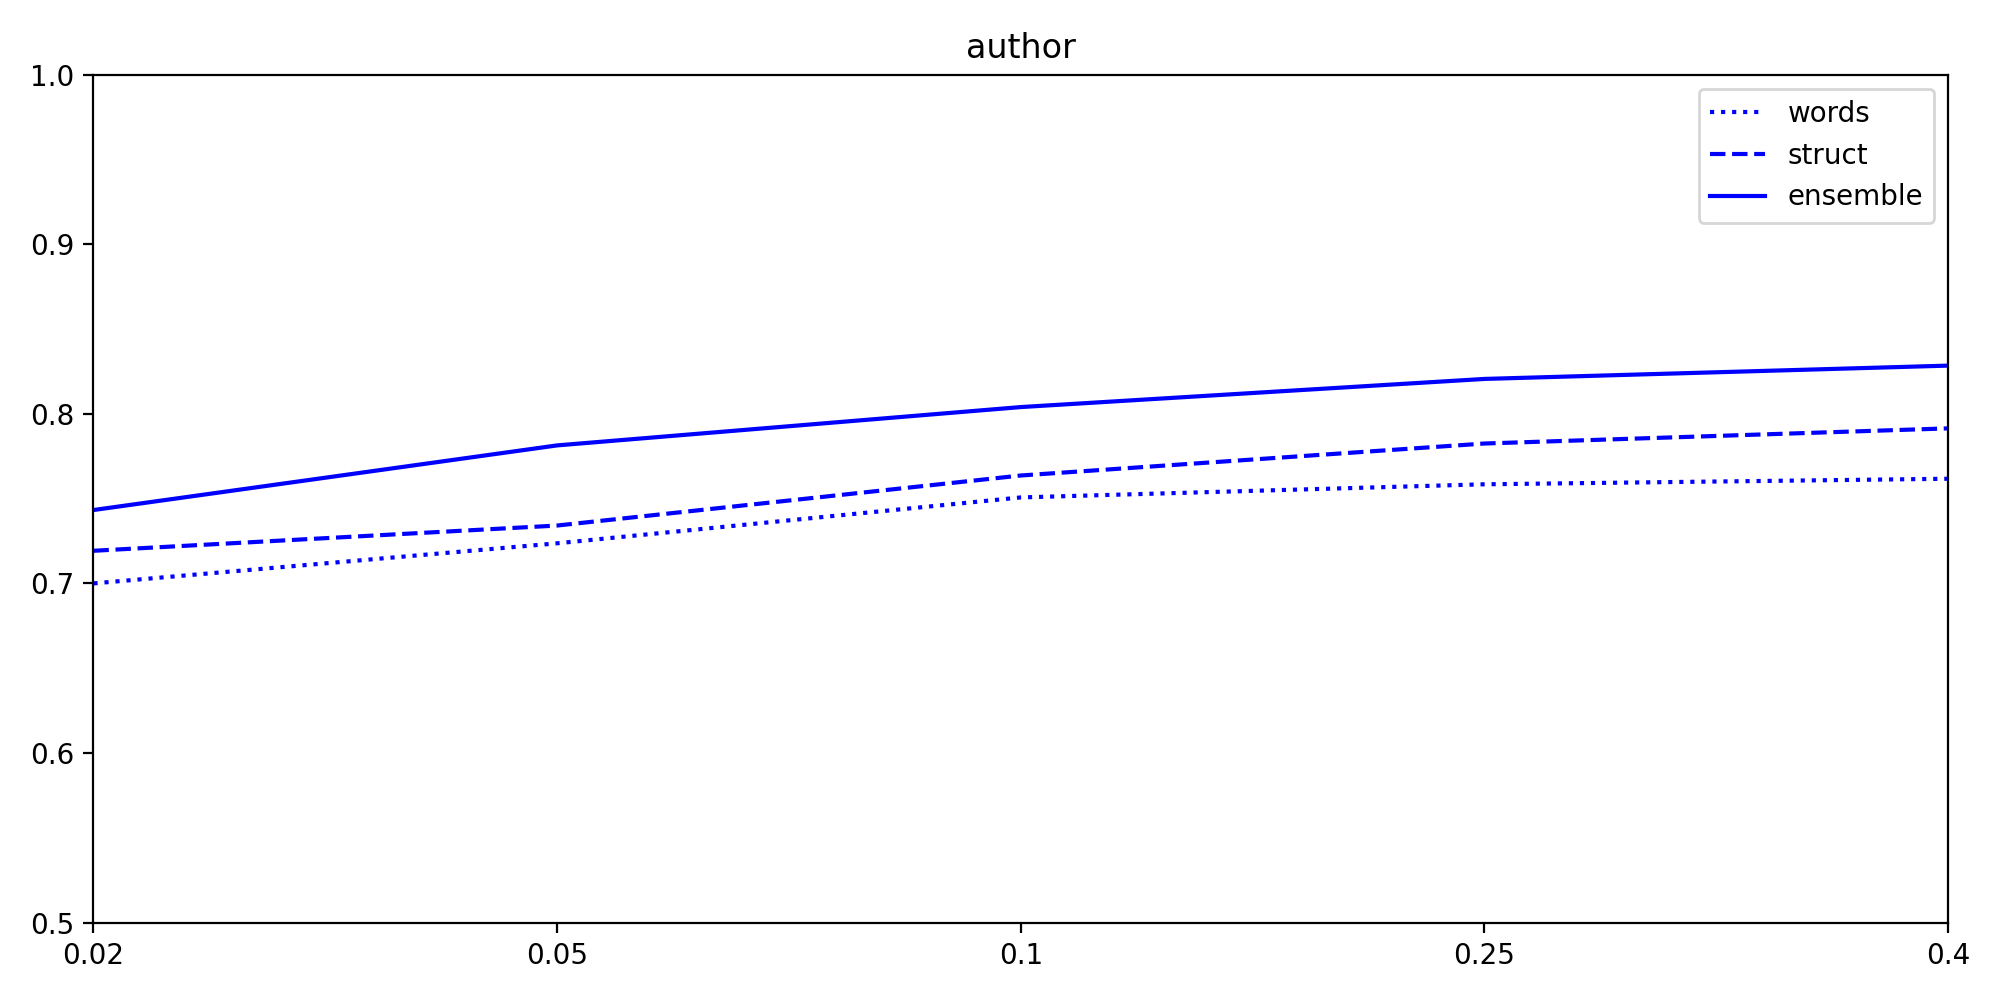
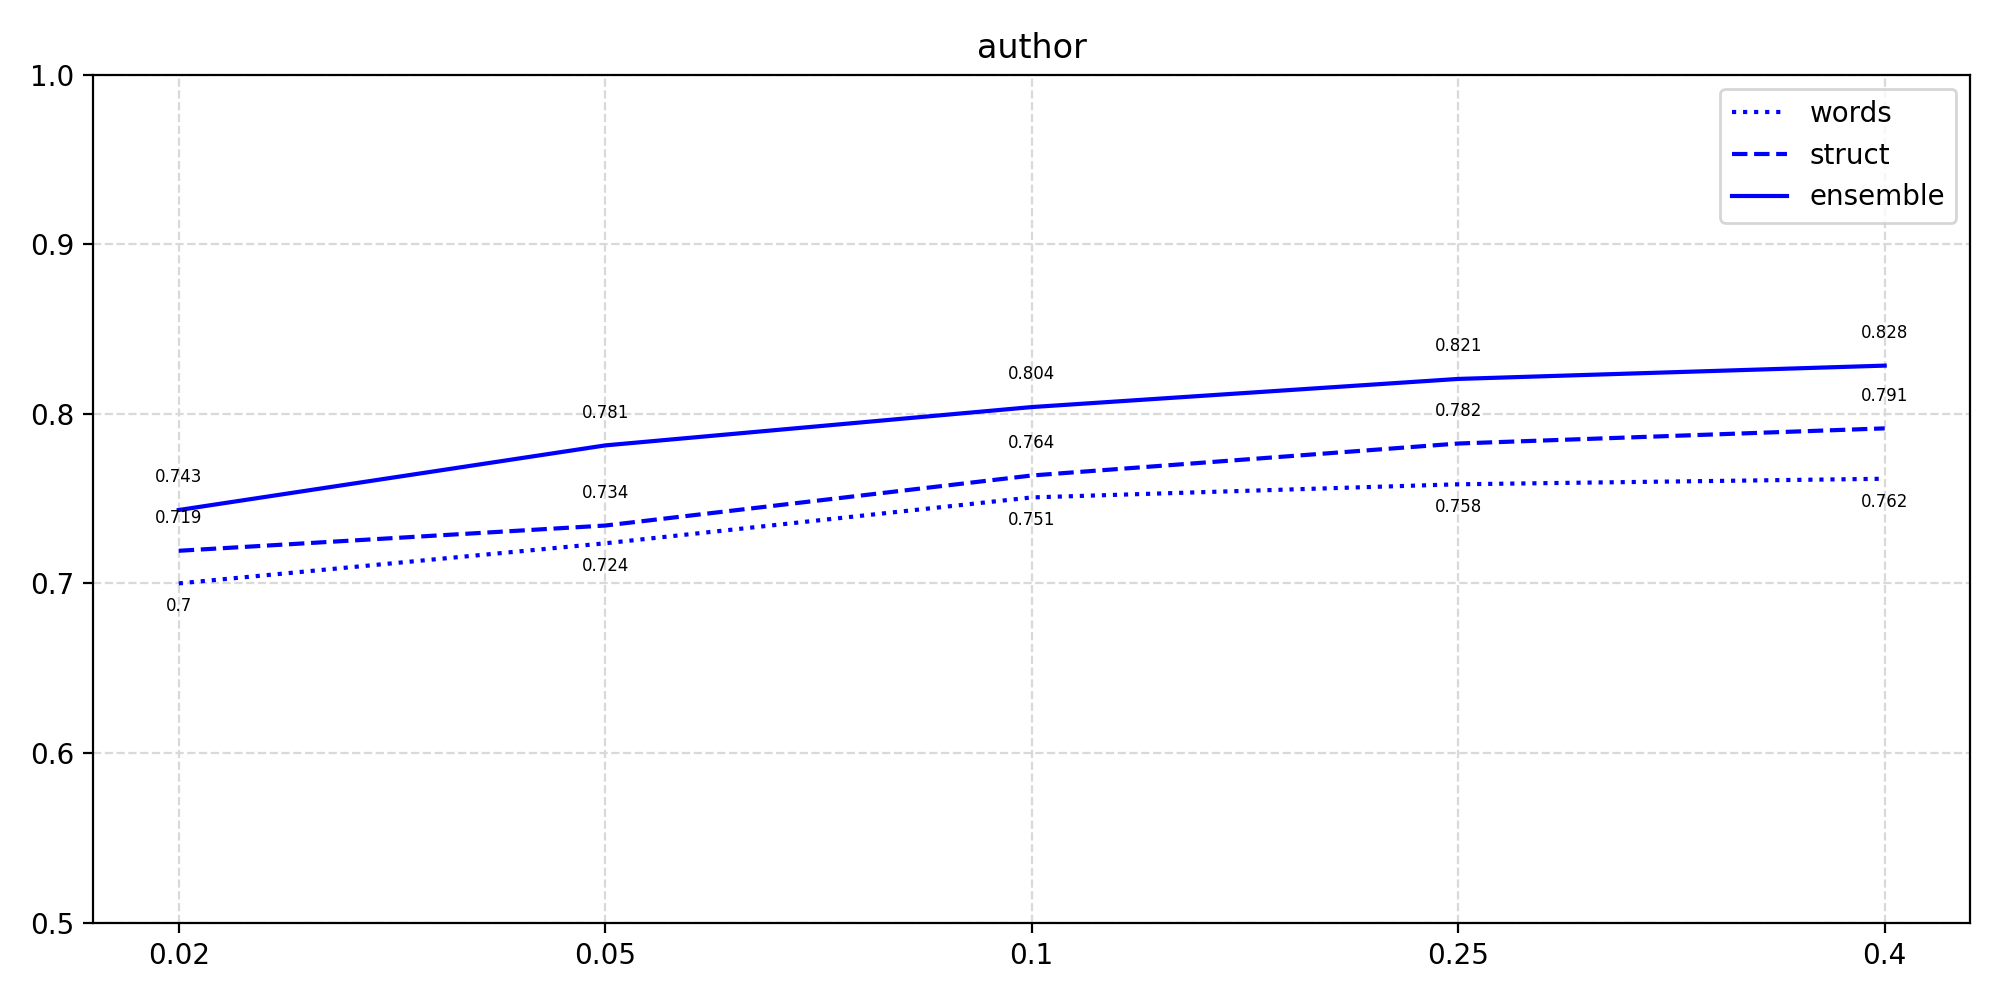
Blue finished

diff --git a/blue_anal.py b/blue_anal.py
@@ -18,7 +18,7 @@ probas = np.load("results/green_probas.npy", allow_pickle=True)
 y_true = np.load("results/green_ytest.npy", allow_pickle=True).reshape(10,5)
 
 """
-Finding best ngram range
+Finding best n-gram range
 """
 # KEYS x EXTRACTOR x QUANTITIES x FROM x TO
 scores = np.mean(scores, axis=(2,3))
@@ -56,16 +56,14 @@ for key_id, key in enumerate(keys):
 
         # calculate mean scores from folds
         fold_scores = np.zeros((3 ,10))
-        for i in range(w.shape[0]):
+        for i in range(10):
             pred_w = np.argmax(w[i], axis=1)
             pred_s = np.argmax(s[i], axis=1)
             pred_e = np.argmax(e[i], axis=1)
             fold_scores[0,i] = balanced_accuracy_score(y_test[i], pred_w)
             fold_scores[1,i] = balanced_accuracy_score(y_test[i], pred_s)
             fold_scores[2,i] = balanced_accuracy_score(y_test[i], pred_e)
-        # print(np.mean(fold_scores, axis=1))
         plot_scores.append(np.mean(fold_scores, axis=1))
-        # exit()
     plot_scores = np.array(plot_scores).T
 
     # Lets make some plots
@@ -74,11 +72,136 @@ for key_id, key in enumerate(keys):
     fig = plt.figure(figsize=(10, 5))
     for i in range(plot_scores.shape[0]):
         plt.plot(plot_scores[i], color='blue', ls=ls[i], label=labels[i])
+        # Annotate
+        xytext = [(0,-10), (0,10), (0,10)]
+        for j in range(plot_scores[i].shape[0]):
+            plt.annotate(str(round(plot_scores[i][j], 3)), (j,plot_scores[i][j]), textcoords="offset points", xytext=xytext[i], ha='center', fontsize=6)
 
     plt.ylim(0.5, 1.0)
     plt.xticks([i for i in range(quantities.shape[0])], [str(type) for type in quantities])
-    plt.xlim(0, 4)
+    # plt.xlim(0, 4)
     plt.title(key)
     plt.legend()
+    plt.grid(ls="--", color=(0.85, 0.85, 0.85))
     plt.tight_layout()
     plt.savefig("figures/%s_blueplot.png" % key, dpi=200)
+
+
+"""
+Plots by extractor
+"""
+y_true = np.load("results/green_ytest.npy", allow_pickle=True)
+for extractor_id, extractor in enumerate(i_s):
+    print(extractor)
+    plot_scores = []
+    for q_id, quantity in enumerate(quantities):
+        y_test = y_true[:, :, q_id].reshape(10,)
+        separate_proba = best_probas[q_id, :, extractor_id]
+
+        txt = separate_proba[0].reshape(10,)
+        aut = separate_proba[1].reshape(10,)
+        ttl = separate_proba[2].reshape(10,)
+        e = np.mean(best_probas[q_id, :, extractor_id], axis=0).reshape(10,)
+
+        # calculate mean scores from folds
+        fold_scores = np.zeros((4 ,10))
+        for i in range(10):
+            pred_txt = np.argmax(txt[i], axis=1)
+            pred_aut = np.argmax(aut[i], axis=1)
+            pred_ttl = np.argmax(ttl[i], axis=1)
+            pred_e = np.argmax(e[i], axis=1)
+            fold_scores[0,i] = balanced_accuracy_score(y_test[i], pred_txt)
+            fold_scores[1,i] = balanced_accuracy_score(y_test[i], pred_aut)
+            fold_scores[2,i] = balanced_accuracy_score(y_test[i], pred_ttl)
+            fold_scores[3,i] = balanced_accuracy_score(y_test[i], pred_e)
+        plot_scores.append(np.mean(fold_scores, axis=1))
+    plot_scores = np.array(plot_scores).T
+
+    # Lets make some plots
+    labels = ['text', 'author', 'title', 'ensemble']
+    ls = [":", "--", "-.", "-"]
+    fig = plt.figure(figsize=(10, 5))
+    for i in range(plot_scores.shape[0]):
+        plt.plot(plot_scores[i], color='blue', ls=ls[i], label=labels[i])
+        # Annotate
+        xytext = [(0,5), (0,5), (0,5), (0,5)]
+        for j in range(plot_scores[i].shape[0]):
+            plt.annotate(str(round(plot_scores[i][j], 3)), (j,plot_scores[i][j]), textcoords="offset points", xytext=xytext[i], ha='center', fontsize=6)
+
+    plt.ylim(0.5, 1.0)
+    plt.xticks([i for i in range(quantities.shape[0])], [str(type) for type in quantities])
+    # plt.xlim(0, 4)
+    plt.title(extractor)
+    plt.legend()
+    plt.grid(ls="--", color=(0.85, 0.85, 0.85))
+    plt.tight_layout()
+    plt.savefig("figures/%s_blueplot.png" % extractor, dpi=200)
+
+"""
+Ensemble of 6
+"""
+y_true = np.load("results/green_ytest.npy", allow_pickle=True)
+plot_scores = []
+stds = []
+for q_id, quantity in enumerate(quantities):
+    y_test = y_true[:, :, q_id].reshape(10,)
+    separate_proba = best_probas[q_id, :, :]
+
+    txt_w = separate_proba[0,0].reshape(10,)
+    aut_w = separate_proba[1,0].reshape(10,)
+    ttl_w = separate_proba[2,0].reshape(10,)
+    txt_s = separate_proba[0,1].reshape(10,)
+    aut_s = separate_proba[1,1].reshape(10,)
+    ttl_s = separate_proba[2,1].reshape(10,)
+    e = np.mean(best_probas[q_id, :, :], axis=(0,1)).reshape(10,)
+    e_w = np.mean(best_probas[q_id, :, 0], axis=0).reshape(10,)
+    e_s = np.mean(best_probas[q_id, :, 1], axis=0).reshape(10,)
+
+    # calculate mean scores from folds
+    fold_scores = np.zeros((9 ,10))
+    for i in range(10):
+        pred_txt_w = np.argmax(txt_w[i], axis=1)
+        pred_aut_w = np.argmax(aut_w[i], axis=1)
+        pred_ttl_w = np.argmax(ttl_w[i], axis=1)
+        pred_txt_s = np.argmax(txt_s[i], axis=1)
+        pred_aut_s = np.argmax(aut_s[i], axis=1)
+        pred_ttl_s = np.argmax(ttl_s[i], axis=1)
+        pred_e = np.argmax(e[i], axis=1)
+        pred_e_w = np.argmax(e_w[i], axis=1)
+        pred_e_s = np.argmax(e_s[i], axis=1)
+        fold_scores[0,i] = balanced_accuracy_score(y_test[i], pred_txt_w)
+        fold_scores[1,i] = balanced_accuracy_score(y_test[i], pred_aut_w)
+        fold_scores[2,i] = balanced_accuracy_score(y_test[i], pred_ttl_w)
+        fold_scores[3,i] = balanced_accuracy_score(y_test[i], pred_txt_s)
+        fold_scores[4,i] = balanced_accuracy_score(y_test[i], pred_aut_s)
+        fold_scores[5,i] = balanced_accuracy_score(y_test[i], pred_ttl_s)
+        fold_scores[8,i] = balanced_accuracy_score(y_test[i], pred_e)
+        fold_scores[6,i] = balanced_accuracy_score(y_test[i], pred_e_w)
+        fold_scores[7,i] = balanced_accuracy_score(y_test[i], pred_e_s)
+    plot_scores.append(np.mean(fold_scores, axis=1))
+    stds.append(np.std(fold_scores, axis=1))
+plot_scores = np.array(plot_scores).T
+stds = np.array(stds).T
+
+# Lets make some plots
+labels = ['text_w', 'author_w', 'title_w','text_s', 'author_s', 'title_s', 'ensemble_w', 'ensemble_s', 'ensemble_all']
+ls = [":", "--", "-.",":", "--", "-.", "-", "-", "-"]
+colors = ["blue", "blue", "blue", "red", "red", "red", "blue", "red", "black"]
+alphas = [.4,.4,.4,.4,.4,.4,1.0,1.0,1.0]
+fig = plt.figure(figsize=(10, 5))
+for i in range(plot_scores.shape[0]):
+    plt.plot(plot_scores[i], color=colors[i], ls=ls[i], label=labels[i], alpha=alphas[i])
+    # # Annotate
+    xytext = [(0,5), (0,5), (0,5), (0,5), (0,5), (0,5), (0,-10), (0,5), (0,10)]
+    for j in range(plot_scores[i].shape[0]):
+        if i == 6 or i == 7 or i == 8:
+            plt.annotate((str(round(plot_scores[i][j], 3))+"+"+str(round(stds[i][j], 3))), (j,plot_scores[i][j]), textcoords="offset points", xytext=xytext[i], ha='center', fontsize=4)
+
+plt.ylim(0.5, 1.0)
+plt.xticks([i for i in range(quantities.shape[0])], [str(type) for type in quantities])
+# plt.xlim(0, 4)
+plt.title("Ensemble of 6")
+plt.legend()
+plt.grid(ls="--", color=(0.85, 0.85, 0.85))
+plt.tight_layout()
+plt.savefig("figures/ensemble6_blueplot.png", dpi=200)
